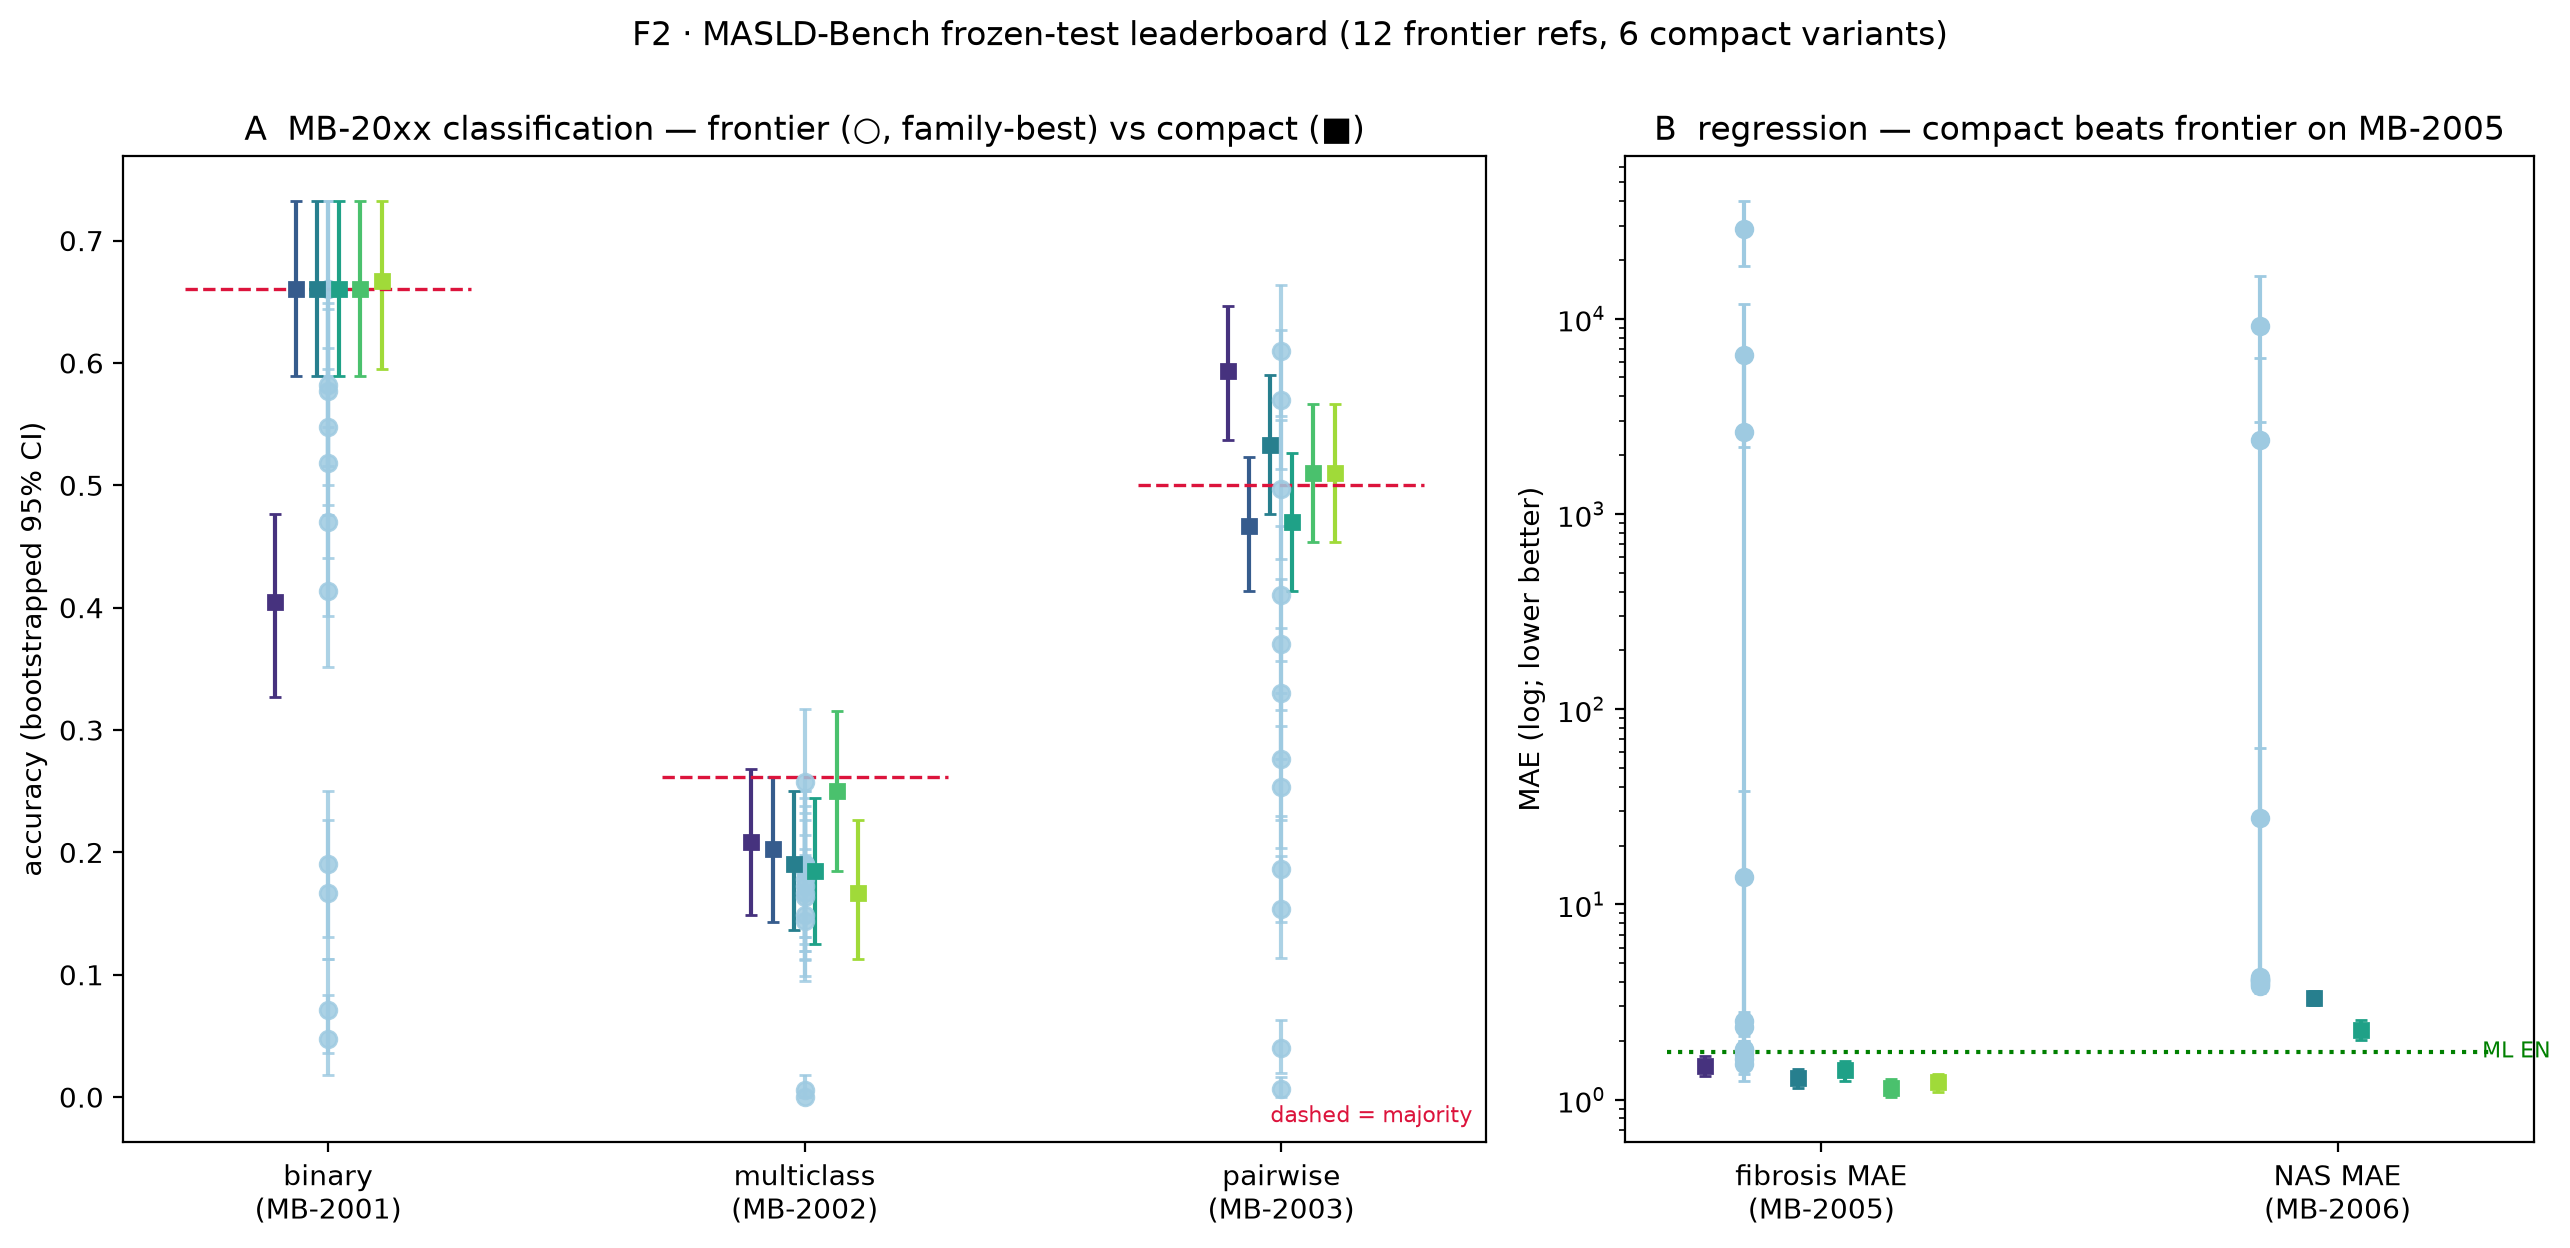
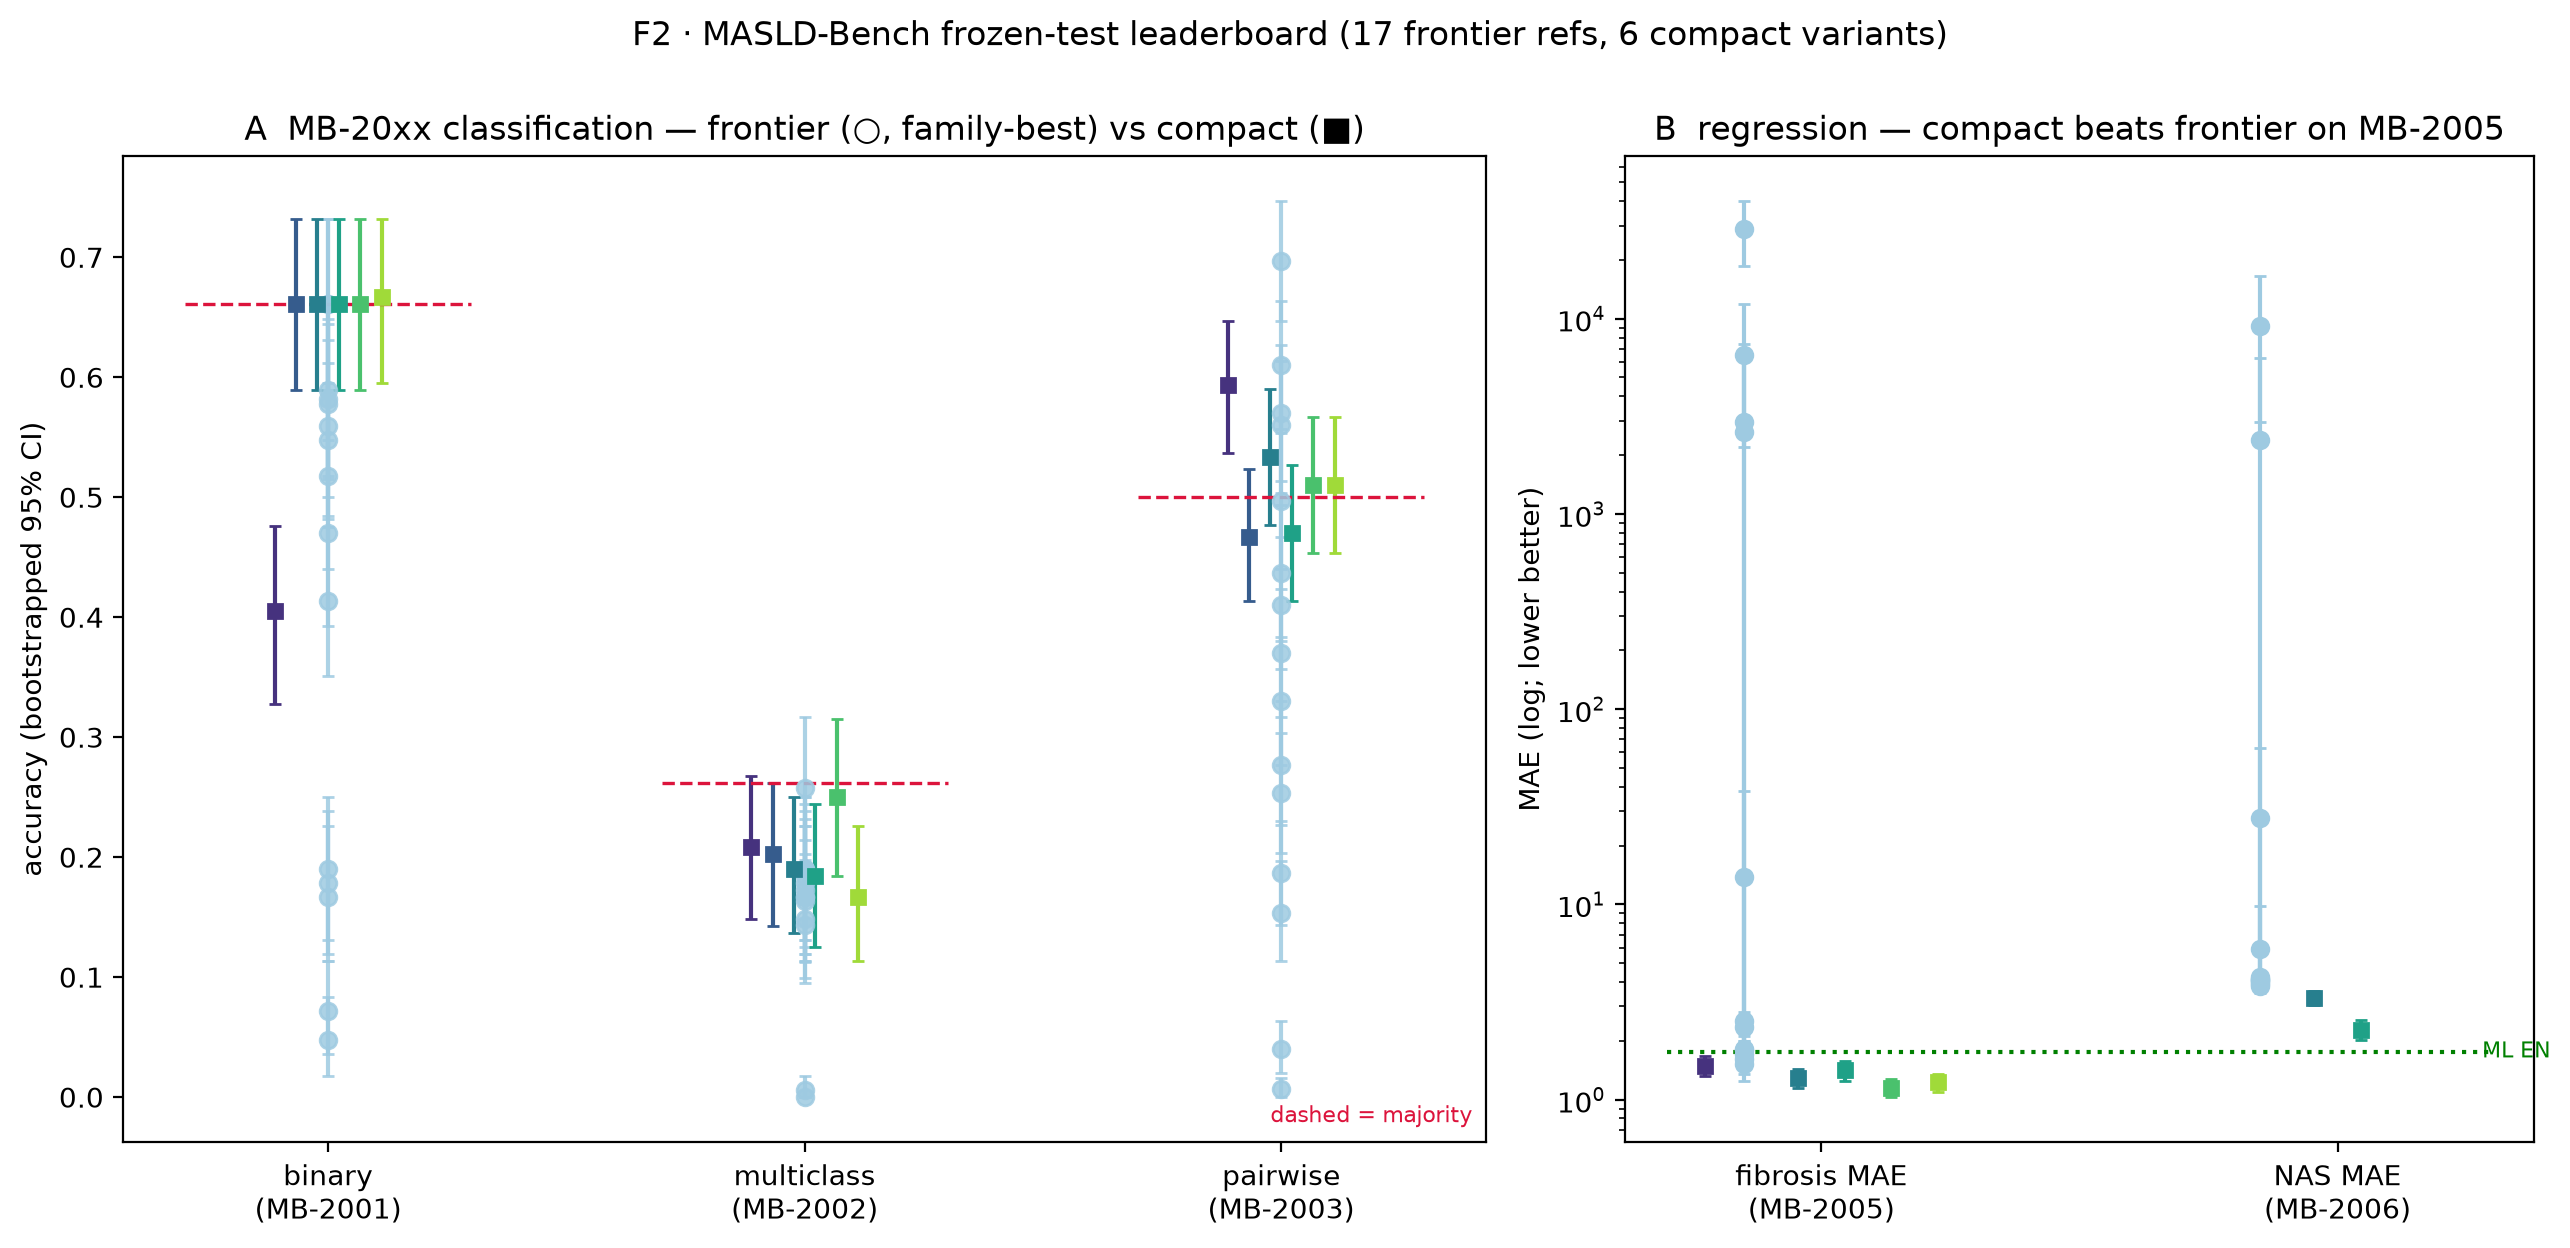
Harvest v6 re-evaluation from Colab (freeze-16): blood cells restored, MB-20xx reproduces exactly
- User's run executed run_v6.py (notebook 07), not v7 — harvested anyway
- MB-20xx v6 cells byte-identical to previous run (greedy determinism)
- v6 MB-86xx on corrected freeze-16: 8601 0.333 (chance), 8602 0.40/0.53,
  8605 MAE 0.95/0.81 vs 0.714 median — no signal on clean labels; C3
  blood verdict unchanged; v5-zeroshot 86xx cells retired
- Leaderboard 161 rows / 25 models; F5 updated

diff --git a/scripts/make_figures.py b/scripts/make_figures.py
@@ -154,12 +154,14 @@ PANELS = [
     ("MB-8505\nordinal", "mae", 0.096,
      {"logreg": gates["MB-8505"]["logreg"]["mae"],
       "0.6B-v5": None, "1.7B-v5": None, "0.6B-v6": None, "1.7B-v6": None}),
-    # MB-86xx panels: model archives quarantined (freeze-8 header off-by-one,
-    # fixed in freeze-16). Classical gate is valid; LLM cells pending re-eval.
-    ("MB-8601\nblood 3-class\n(LLM pending)", "acc", 0.381,
-     {"logreg": g86["MB-8601"]["logreg"]["acc"]}),
-    ("MB-8602\nblood binary\n(LLM pending)", "acc", 0.533,
-     {"logreg": g86["MB-8602"]["logreg"]["acc"]}),
+    # MB-86xx on the corrected freeze-16 corpus (2026-10-19 v6 re-eval);
+    # v5-zeroshot cells retired with the quarantined archives.
+    ("MB-8601\nblood 3-class", "acc", 0.381,
+     {"logreg": g86["MB-8601"]["logreg"]["acc"],
+      "0.6B-v6": 0.333, "1.7B-v6": 0.333}),
+    ("MB-8602\nblood binary", "acc", 0.533,
+     {"logreg": g86["MB-8602"]["logreg"]["acc"],
+      "0.6B-v6": 0.400, "1.7B-v6": 0.533}),
     ("MB-8701\nplatform", "acc", 0.350,
      {"logreg": 1.000, "0.6B-v5": 0.320, "1.7B-v5": 0.257, "0.6B-v6": 0.0, "1.7B-v6": 0.398}),
     ("MB-8705\nmasked protein", "mae", 0.818,

diff --git a/docs/RESULTS_DRAFT.md b/docs/RESULTS_DRAFT.md
@@ -98,11 +98,14 @@ lists 35 sample names and no gene-ID column, but `build_mb86xx.py` sliced
 with the *previous* patient's expression. All 20 freeze-8 items were
 mislabeled. The corpus is rebuilt with an explicit header-shape check
 (now fails loudly on ambiguity), giving 21 patients (low 8 / medium 6 /
-high 7). All four MB-86xx model archives were produced on the corrupted
-prompts and are quarantined under results/quarantine/; they must be
-re-evaluated before any MB-86xx LLM number is cited. The classical gate
-was re-run on the corrected corpus and still fails (no family beats
-chance/majority), so the row's qualitative verdict is unchanged.
+high 7). The four corrupted archives are quarantined under
+results/quarantine/. The v6 cells were re-evaluated on freeze-16
+(2026-10-19): MB-8601 0.333 = chance for both sizes; MB-8602 0.400/0.533;
+MB-8605 MAE 0.95/0.81 vs the 0.714 median baseline — no blood-proxy signal
+on clean labels either. The classical gate likewise still fails (no family
+beats chance/majority). The row's qualitative verdict is unchanged and now
+rests on corrected data; the v5-zeroshot blood cells are retired with the
+quarantined archives.
 
 LLM ledger on the same frozen tests:
 - Zero-shot (v5): both sizes collapse to constants (1.7B all-"no"

diff --git a/RUNLOG.md b/RUNLOG.md
@@ -1271,3 +1271,22 @@ params or system messages. Budget ~$14.9 of the topped-up credit.
    vs 0.500 unaided. Orchestration fidelity is perfect.
 
 Leaderboard: 155 rows / 25 models (arms included). Balance ~$6.2.
+
+## 2026-10-19 (late) · Colab run harvested: v6 re-evaluation, NOT the 9B
+
+The user's Colab run executed run_v6.py (notebook 07), not run_v7.py —
+Drive holds fresh v6-tagged archives for all five families, no 8B
+checkpoint, no v7 manifest.
+
+Harvested and validated anyway:
+- All five v6 families for 0.6B and 1.7B re-written from Drive corpora
+  (now freeze-16). MB-20xx cells reproduce the previous numbers EXACTLY
+  (delta 0.0 on all five tasks — greedy determinism verified).
+- The two quarantined v6 MB-86xx cells are re-done on the CORRECTED corpus:
+  8601 0.333/0.333 (= chance), 8602 0.400/0.533, 8605 MAE 0.952/0.810 vs
+  median 0.714. No signal on clean labels — C3 blood row verdict unchanged.
+- v5-zeroshot 86xx cells remain retired (notebook 09 optional; superseded
+  by v6 as the current recipe).
+- Leaderboard 161 rows / 25 models. F5 86xx panels updated (v6 bars).
+
+PENDING: the actual 9B run = notebook 08 on an A100 runtime.
